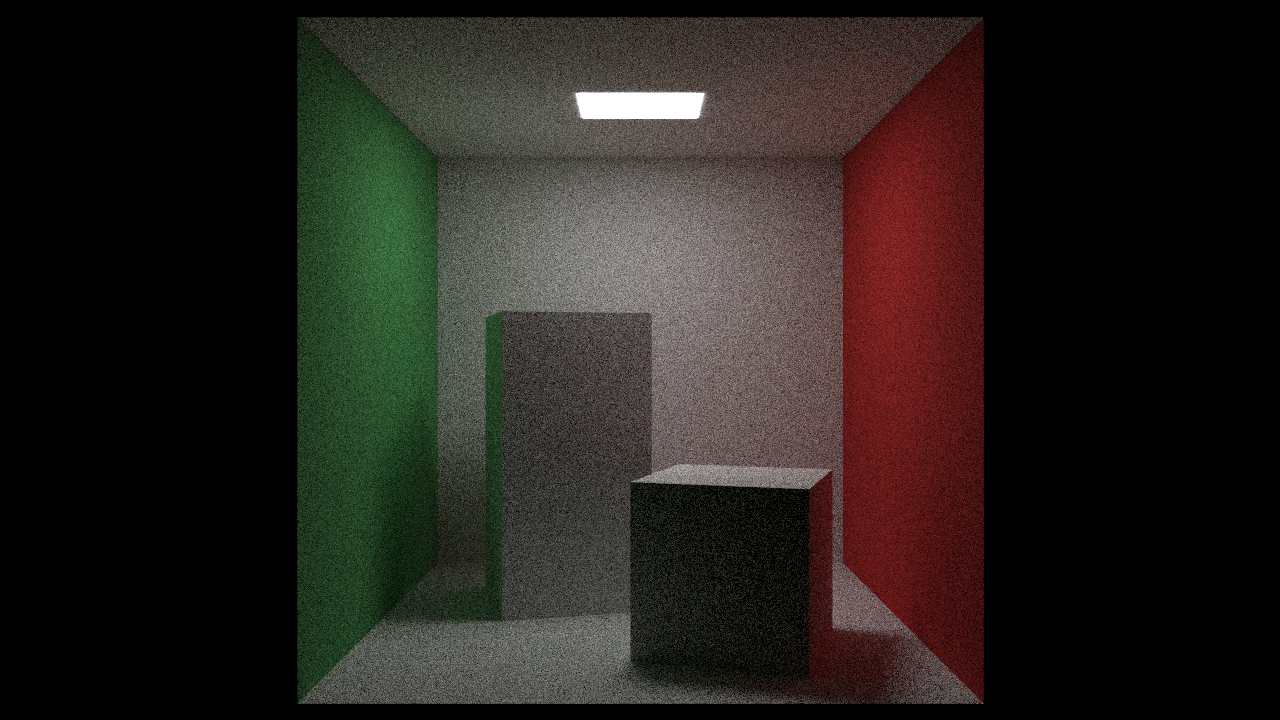
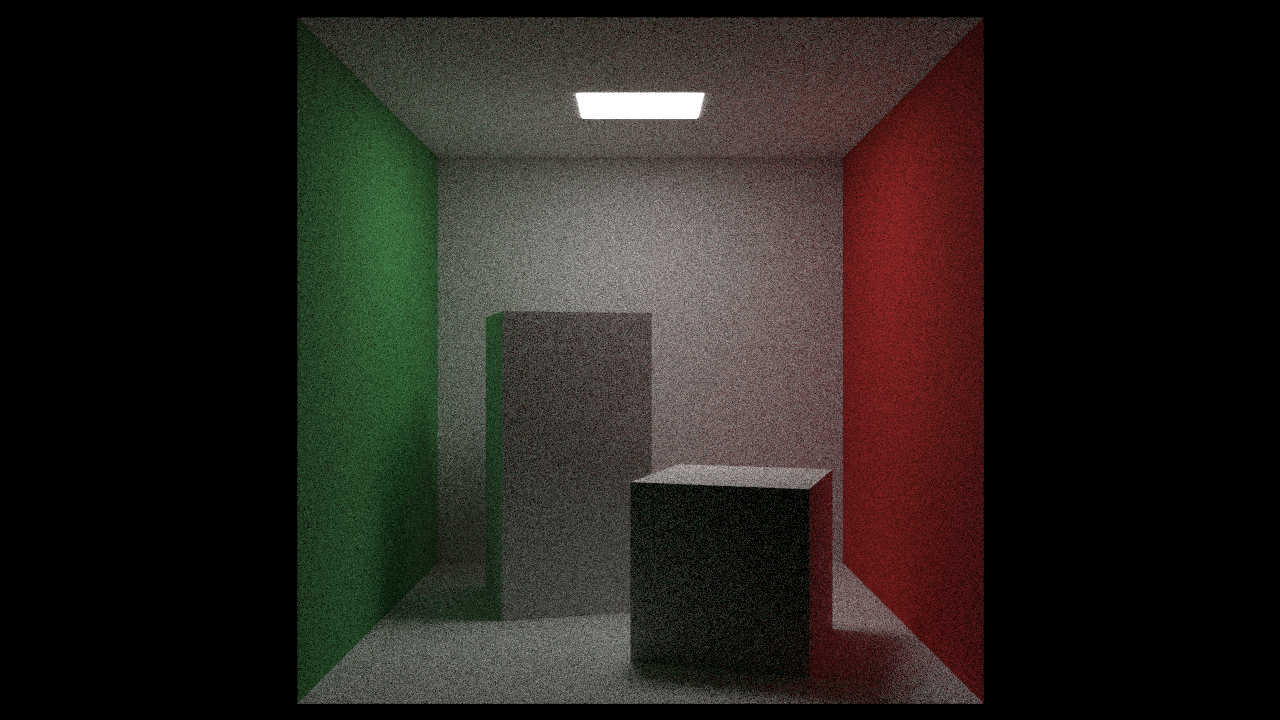
refactor: add scattering_pdf but same result

Changed region(s): [[0.2188, 0.0306, 0.7812, 0.9778]]

diff --git a/src/common/material.h b/src/common/material.h
@@ -10,6 +10,7 @@ struct HitRecord;
 
 PRO_DEF_MEM_DISPATCH(MemEmitted, emitted);
 PRO_DEF_MEM_DISPATCH(MemScatter, scatter);
+PRO_DEF_MEM_DISPATCH(MemScatteringPDF, scattering_pdf);
 
 struct Material                                                                                 //
     : pro::facade_builder                                                                       //
@@ -17,6 +18,8 @@ struct Material                                                                 
       ::add_convention<MemEmitted, Vec3d(const double u, const double v, const Vec3d& p) const> //
       ::add_convention<MemScatter, bool(const Ray& ray_in, const HitRecord& hit_rec,
                                        Vec3d& attenuation, Ray& scattered) const> //
+      ::add_convention<MemScatteringPDF,
+          double(const Ray& ray_in, const HitRecord& hit_rec, const Ray& scattered) const> //
       ::build {};
 
 struct HitRecord {
@@ -56,6 +59,11 @@ struct Lambertion {
         return true;
     }
 
+    double scattering_pdf(const Ray& ray_in, const HitRecord& hit_rec, const Ray& scattered) const {
+        const double cos_theta = hit_rec.normal.dot(scattered.direction().normalized());
+        return std::max(0.0, cos_theta / pi);
+    }
+
 private:
     pro::proxy<Texture> m_tex;
 };
@@ -73,6 +81,10 @@ struct Metal {
         scattered = Ray(hit_rec.p, reflected, ray_in.time());
         attenuation = albedo;
         return scattered.direction().dot(hit_rec.normal) > 0.0;
+    }
+
+    double scattering_pdf(const Ray& ray_in, const HitRecord& hit_rec, const Ray& scattered) const {
+        return 0.0;
     }
 
 private:
@@ -105,6 +117,10 @@ struct Dielectric {
         return true;
     }
 
+    double scattering_pdf(const Ray& ray_in, const HitRecord& hit_rec, const Ray& scattered) const {
+        return 0.0;
+    }
+
 private:
     // Refractive index in vaccum or air, or the ratio of the material's refractive index onver the
     // refractive index of the enclosing media
@@ -132,6 +148,10 @@ struct DiffuseLight {
         return false;
     }
 
+    double scattering_pdf(const Ray& ray_in, const HitRecord& hit_rec, const Ray& scattered) const {
+        return 0.0;
+    }
+
     pro::proxy<Texture> m_tex;
 };
 
@@ -147,6 +167,10 @@ struct Isotropic {
         scattered = Ray {hit_rec.p, random_unit_vector(), ray_in.time()};
         attenuation = m_tex->value(hit_rec.u, hit_rec.v, hit_rec.p);
         return true;
+    }
+
+    double scattering_pdf(const Ray& ray_in, const HitRecord& hit_rec, const Ray& scattered) const {
+        return 0.0;
     }
 
     pro::proxy<Texture> m_tex;

diff --git a/src/common/camera.h b/src/common/camera.h
@@ -205,8 +205,14 @@ private:
             return color_from_emission;
         }
 
-        const Vec3d color_from_scatter =
-            attenuation.array() * ray_color(scattered, depth - 1, hittable).array();
+        const double scattering_pdf = hit_rec.mat->scattering_pdf(ray, hit_rec, scattered);
+        const double pdf_value = scattering_pdf;
+
+        const Vec3d color_from_scatter =                        //
+            attenuation.array()                                 //
+            * scattering_pdf                                    //
+            * ray_color(scattered, depth - 1, hittable).array() //
+            / pdf_value;
 
         return color_from_emission + color_from_scatter;
     }
